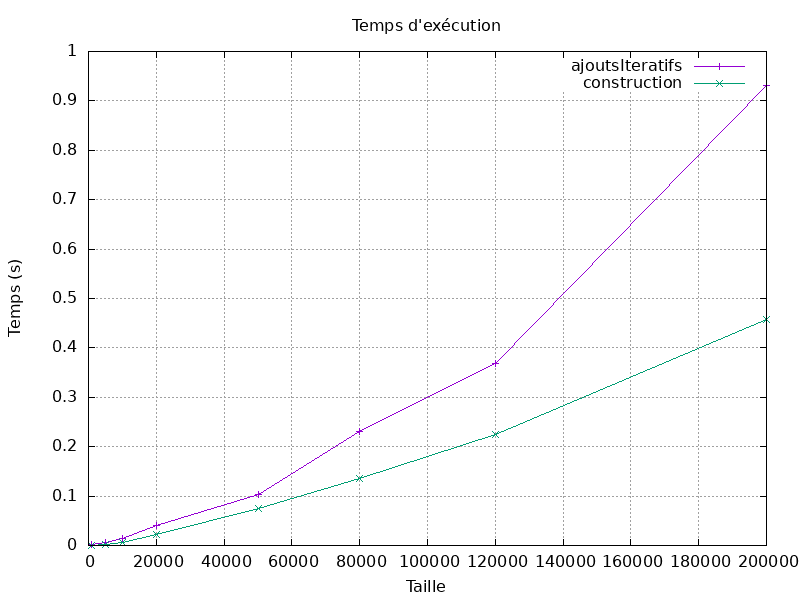
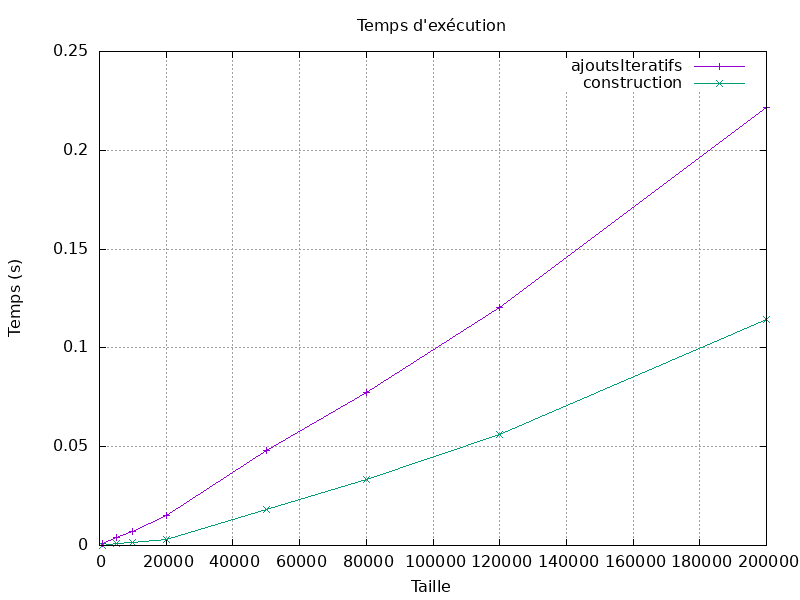
commit

diff --git a/sources/tasArbre.c b/sources/tasArbre.c
@@ -77,18 +77,6 @@ void echangeRacine(TasArbre* tas)
     }
 }
 
-void reequilibrage(TasArbre* tas)
-{
-    if(tas == NULL)
-    {
-        //printf("Reequilibrage : Fin du tas\n");
-        return;
-    }
-    reequilibrage(tas->fg);
-    reequilibrage(tas->fd);
-    echangeRacine(tas);
-}
-
 void reequilibrageRemontee(TasArbre* tas)
 {
     if(tas->parent == NULL)
@@ -303,18 +291,37 @@ Element* ajoutListe(TasArbre* noeud)
     Element* elt = (Element*)malloc(sizeof(Element));
     elt->noeud = noeud;
     elt->suiv = NULL;
+    elt->pre = NULL;
     return elt;
 }
 
-void deleteListe(Liste* liste)
+void deleteElement(Element* tete)
 {
-    while(liste->tete != NULL)
+    while(tete != NULL)
     {
-        Element* elt = liste->tete;
-        liste->tete = liste->tete->suiv;
+        Element* elt = tete;
+        tete = tete->suiv;
         free(elt);
     }
-    free(liste);
+}
+
+void reequilibrageDescente(Element* tete, int len)
+{
+    Element* tmp = tete;
+    for(int i = 0; i<(len/2); i++)
+    { 
+        tmp = tmp->suiv;
+    }
+    Element* noeud = tmp;
+    for(int i = 0; i<(len/2)+1; i++)
+    {
+        if(noeud == NULL)
+        {
+            break;
+        }
+        echangeRacine(noeud->noeud);
+        noeud = noeud->pre;
+    }
 }
 
 TasArbre* construction(Clef128* clefs[], int len)
@@ -323,28 +330,34 @@ TasArbre* construction(Clef128* clefs[], int len)
     TasArbre* premier = creerNoeud(clefs[0]);
     liste->tete = ajoutListe(premier);
     liste->queue = liste->tete;
-    Liste* li = liste;
+    Element* supp = liste->tete;
+    Element* reequilibrage = liste->tete;
     TasArbre* tas = liste->tete->noeud;
     for(int i = 1; i<len; i++)
     {
         if(liste->tete->noeud->fg == NULL)
         {
             liste->tete->noeud->fg = creerNoeud(clefs[i]);
+            liste->tete->noeud->fg->parent = liste->tete->noeud;
             liste->queue->suiv = ajoutListe(liste->tete->noeud->fg);
+            liste->queue->suiv->pre = liste->queue;
             liste->queue = liste->queue->suiv;
 
         }else{
             if(liste->tete->noeud->fd == NULL)
             {
                 liste->tete->noeud->fd = creerNoeud(clefs[i]);
+                liste->tete->noeud->fd->parent = liste->tete->noeud;
                 liste->queue->suiv = ajoutListe(liste->tete->noeud->fd);
+                liste->queue->suiv->pre = liste->queue;
                 liste->queue = liste->queue->suiv;
                 liste->tete = liste->tete->suiv;
             }
         }
     }
-    reequilibrage(tas);
-    deleteListe(li);
+    reequilibrageDescente(reequilibrage, len);
+    deleteElement(supp);
+    free(liste);
     return tas;
 }
 
@@ -359,8 +372,10 @@ TasArbre* Union(TasArbre* tas1, TasArbre* tas2)
     Liste* tasAcopie = (Liste*)malloc(sizeof(Liste));
     tasAcopie->tete = ajoutListe(tas1);
     tasAcopie->queue = tasAcopie->tete;
-    Liste* li = newliste;
-    Liste* li2 = tasAcopie;
+    Element* supp1 = newliste->tete;
+    Element* supp2 = tasAcopie->tete;
+    Element* reequilibrage = newliste->tete;
+    int len = 1; // nombre de noeud;
     while(tasAcopie->tete != NULL)
     {
         if(tasAcopie->tete->noeud->fg)
@@ -382,14 +397,18 @@ TasArbre* Union(TasArbre* tas1, TasArbre* tas2)
 
         if(newliste->tete->noeud->fg == NULL)
         {
+            len++;
             newliste->tete->noeud->fg = creerNoeud(tasAcopie->tete->noeud->clef);
             newliste->queue->suiv = ajoutListe(newliste->tete->noeud->fg);
+            newliste->queue->suiv->pre = newliste->queue;
             newliste->queue = newliste->queue->suiv;
         }else{
             if(newliste->tete->noeud->fd == NULL)
             {
+                len++;
                 newliste->tete->noeud->fd = creerNoeud(tasAcopie->tete->noeud->clef);
                 newliste->queue->suiv = ajoutListe(newliste->tete->noeud->fd);
+                newliste->queue->suiv->pre = newliste->queue;
                 newliste->queue = newliste->queue->suiv;
                 newliste->tete = newliste->tete->suiv;
             }
@@ -399,7 +418,7 @@ TasArbre* Union(TasArbre* tas1, TasArbre* tas2)
     Liste* tasAcopie2 = (Liste*)malloc(sizeof(Liste));
     tasAcopie2->tete = ajoutListe(tas2);
     tasAcopie2->queue = tasAcopie2->tete;
-    Liste* li3 = tasAcopie2;
+    Element* supp3 = tasAcopie2->tete;
     while(tasAcopie2->tete != NULL)
     {
         if(tasAcopie2->tete->noeud->fg)
@@ -415,26 +434,32 @@ TasArbre* Union(TasArbre* tas1, TasArbre* tas2)
     
         if(newliste->tete->noeud->fg == NULL)
         {
+            len++;
             newliste->tete->noeud->fg = creerNoeud(tasAcopie2->tete->noeud->clef);
             newliste->queue->suiv = ajoutListe(newliste->tete->noeud->fg);
+            newliste->queue->suiv->pre = newliste->queue;
             newliste->queue = newliste->queue->suiv;
 
         }else{
             if(newliste->tete->noeud->fd == NULL)
             {
+                len++;
                 newliste->tete->noeud->fd = creerNoeud(tasAcopie2->tete->noeud->clef);
                 newliste->queue->suiv = ajoutListe(newliste->tete->noeud->fd);
+                newliste->queue->suiv->pre = newliste->queue;
                 newliste->queue = newliste->queue->suiv;
                 newliste->tete = newliste->tete->suiv;
             }
         }
         tasAcopie2->tete = tasAcopie2->tete->suiv;
     }
-
-    reequilibrage(tasFinal);
-    deleteListe(li);
-    deleteListe(li2);
-    deleteListe(li3);
+    reequilibrageDescente(reequilibrage, len);
+    deleteElement(supp1);
+    deleteElement(supp2);
+    deleteElement(supp3);
+    free(newliste);
+    free(tasAcopie);
+    free(tasAcopie2);
     return tasFinal;
 }
 

diff --git a/headers/tasArbre.h b/headers/tasArbre.h
@@ -16,6 +16,7 @@ typedef struct Element Element;
 struct Element {
     TasArbre* noeud;
     struct Element* suiv;
+    struct Element* pre;
 };
 
 typedef struct Liste Liste;
@@ -31,7 +32,7 @@ TasArbre* creerNoeud(Clef128* clef);
 void echangeClef(Clef128* a, Clef128* b);
 void echangeRacine(TasArbre* tas);
 void reequilibrageRemontee(TasArbre* tas);
-void reequilibrage(TasArbre* tas);
+void reequilibrageDescente(Element* tete, int len);
 void majHauteurAjout(TasArbre* tas);
 void majNoeudAjout(TasArbre* tas);
 void majHauteurSuppr(TasArbre* tas);
@@ -40,7 +41,7 @@ void ajout (TasArbre * tas, Clef128* clef);
 TasArbre* ajoutsIteratifs (Clef128* clefs[], int len);
 Clef128 supprMin (TasArbre* tas, TasArbre* racine);
 Element* ajoutListe(TasArbre* noeud);
-void deleteListe(Liste* liste);
+void deleteElement(Element* tete);
 TasArbre* construction(Clef128* clefs[], int len);
 TasArbre* Union(TasArbre* tas1, TasArbre* tas2);
 void affichageTasArbre(TasArbre* tas);

diff --git a/sources/fonctionHachage.c b/sources/fonctionHachage.c
@@ -65,8 +65,14 @@ unsigned int MD5(char* chaine)
     Clef128* clef = hexaToUnsigned("0x1032547698BADCFEEFCDAB8967452301");
     
     //Preparation du message(padding) :
+    int lenInit = strlen(chaine);
+    strcat(chaine, "1");
     int len = strlen(chaine);
-    
-
+    while(len%512 != 448)
+    {
+        strcat(chaine, "0");
+        len++;
+    }
+    strcpy(chaine, lenInit);
 
 }

diff --git a/tests/test_tasArbre.c b/tests/test_tasArbre.c
@@ -66,7 +66,7 @@ int main(int argc, char** argv){
     affichageTasArbre(t1);
     
     // CONSTRUCTION
-    TasArbre* t2 = construction(clefs, 5);
+    TasArbre* t2 = construction(clefs, 15);
     printf("\n");
     printf("-------CONSTRUCTION--------\n");
     affichageTasArbre(t2);
